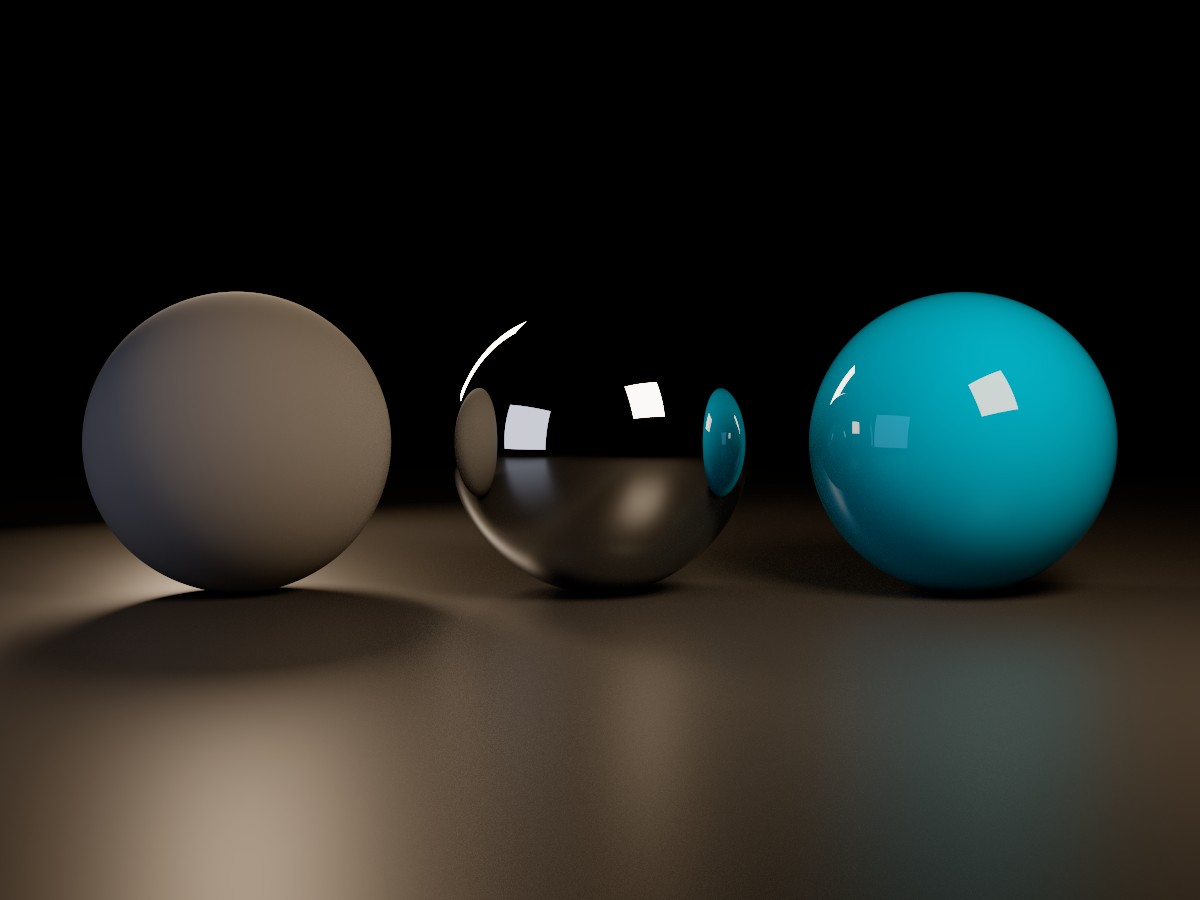
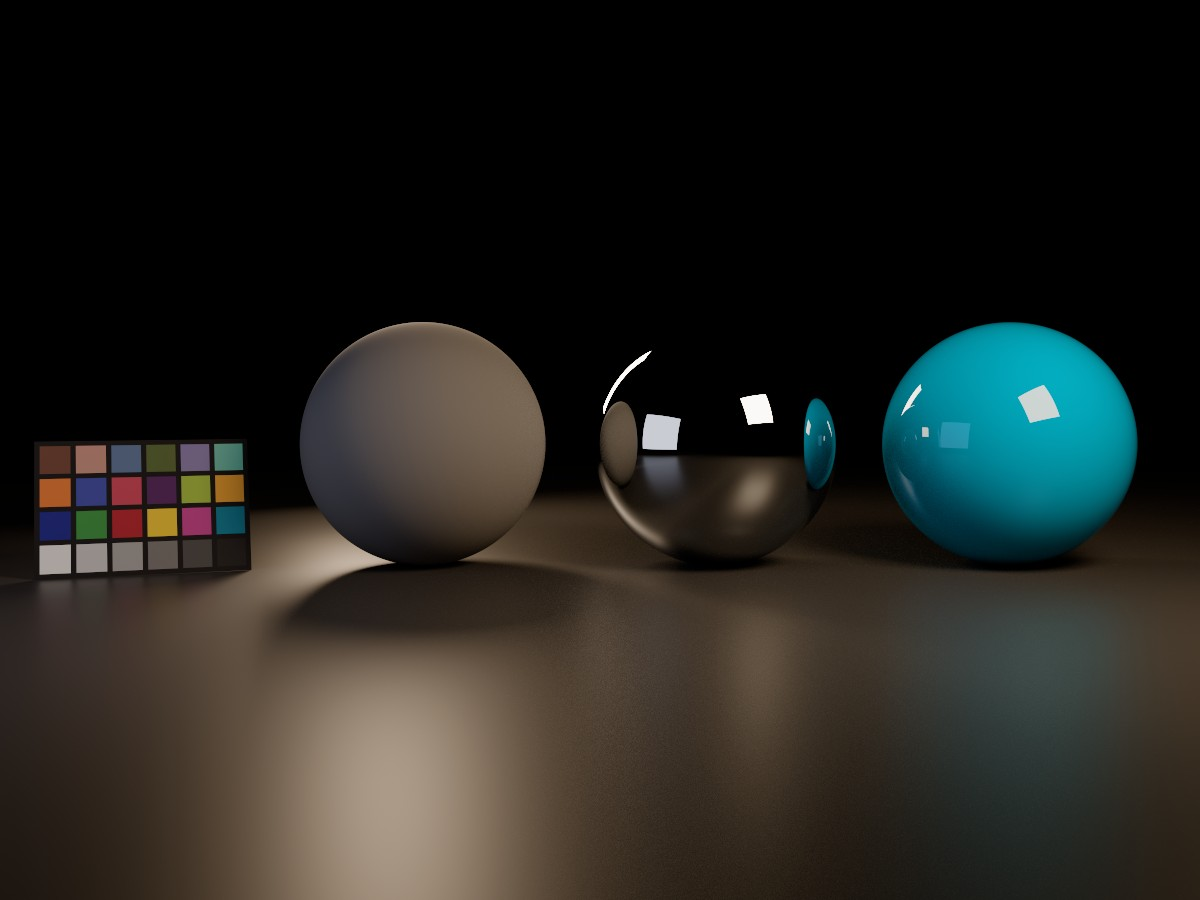
Lookdev lab: a ColorChecker beside the reference balls
The lookdev trio is chart, gray ball, chrome ball. The chart now stands at the
left of the row (on by default, with a Chart toggle): a card on the floor,
leaning back 15 degrees and turned to the camera, its 24 patches X-Rite's
published L*a*b* values (charts after November 2014, D50), Bradford-adapted to
the ACES white and converted to ACEScg, shaded like the official gray card.
The frame widens and moves left to take it in, keeping its margins; the model
plates get a chart beside their small gray ball. It hides in the furnace test
(readings unchanged at 1.000).

Posters re-rendered at 2048 spp (the rig reproduces the old poster within
about one level with the chart off); the engine's resolution cap is now a
field so the poster render can raise it. Tech note, citation, intro copy and
the poster's alt text mention the chart.

diff --git a/components/lookdev/engine.ts b/components/lookdev/engine.ts
@@ -1,6 +1,6 @@
 import { VERT, E_TABLE_FRAG, DISPLAY_FRAG, DENOISE_PREP_FRAG, ATROUS_FRAG, traceFrag } from './shaders'
 import { kelvinToACEScg } from './color'
-import { SCENE_MATERIALS, HERO_PRESETS, MATERIAL_FIELDS, STAGES, BALLS_METERS_PER_UNIT, heroParams, subsurfaceScale, type OpenPBR, type Hero, type PaintFinish, type SkinTone, type Stage } from './materials'
+import { SCENE_MATERIALS, HERO_PRESETS, MATERIAL_FIELDS, STAGES, BALLS_METERS_PER_UNIT, COLOR_CHECKER, heroParams, subsurfaceScale, type OpenPBR, type Hero, type PaintFinish, type SkinTone, type Stage } from './materials'
 import { MODELS, MODEL_BALLS, MESH_MATERIALS, loadModel, type Model } from './models'
 
 export type Pass = 'beauty' | 'diffuse' | 'specular' | 'albedo' | 'normal'
@@ -23,6 +23,7 @@ export interface LabState {
   model: Model
   modelYaw: number // turntable angle of a model, radians
   stage: Stage
+  chart: boolean // the color chart beside the reference balls
   hero: Hero
   paint: PaintFinish // car paint's finish
   flakes: boolean // car paint flakes (metallic, pearl and iridescent finishes)
@@ -52,6 +53,7 @@ export const DEFAULT_STATE: LabState = {
   model: 'spheres',
   modelYaw: 0.6,
   stage: 'void',
+  chart: true,
   hero: 'carpaint',
   paint: 'solid',
   flakes: false,
@@ -254,6 +256,13 @@ const CAM_TARGET: Vec3 = [0, 0.95, 0]
 const H_HALF_EXTENT = 4.0
 const MODEL_CAM_TARGET: Vec3 = [0, 0.62, 0]
 const MODEL_H_HALF_EXTENT = 3.55
+
+// The color chart stands at the left end of the row, beside the gray ball, as on a lookdev plate (chart, gray
+// ball, chrome ball): on the floor, leaning back, turned to face the camera. Its width is in gray ball radii; the
+// frame widens and moves left to take it in, keeping its margins.
+const CHART_GAP = 0.18 // the tracer's CHART_GAP: between patches and around them, in patch widths
+const CHART_ASPECT = (4 + 5 * CHART_GAP) / (6 + 7 * CHART_GAP) // height over width
+const CHART_TILT = (15 * Math.PI) / 180
 
 function direction(az: number, el: number): Vec3 {
   return [Math.cos(el) * Math.sin(az), Math.sin(el), Math.cos(el) * Math.cos(az)]
@@ -610,8 +619,13 @@ export class LookdevEngine {
     return key === 'base' ? this.progTrace : this.variants.get(key)!.prog
   }
 
-  // World points under each labelled object: the two reference balls and the hero (ball or model).
+  // World points under each labelled object: the two reference balls, the hero (ball or model), then the chart.
   labelPoints(): Vec3[] {
+    const chart = this.frame().chart
+    return chart ? [...this.objectPoints(), chart.foot] : this.objectPoints()
+  }
+
+  private objectPoints(): Vec3[] {
     if (this.state.model === 'spheres') return BALL_X.map((x): Vec3 => [x, 0, 0])
     const mesh = this.meshes.get(this.state.model)
     const scaleW = MODELS[this.state.model].scale
@@ -737,10 +751,12 @@ export class LookdevEngine {
     return { tex, fbo }
   }
 
+  // Cap on the internal resolution, so the path tracer stays interactive on large or dense displays (and the light
+  // mixer's three float images per buffer stay modest in GPU memory). The poster renders raise it.
+  maxPixels = 1_200_000
+
   resize(cssW: number, cssH: number, dpr: number) {
-    // Cap the internal resolution so the path tracer stays interactive on large or dense displays (and the light
-    // mixer's three float images per buffer stay modest in GPU memory).
-    const maxPixels = 1_200_000
+    const maxPixels = this.maxPixels
     let scaleF = Math.min(dpr, 1.5)
     if (cssW * cssH * scaleF * scaleF > maxPixels) scaleF = Math.sqrt(maxPixels / (cssW * cssH))
     const w = Math.max(1, Math.round(cssW * scaleF))
@@ -866,24 +882,48 @@ export class LookdevEngine {
 
   // Normalized screen position (0..1, y down) of a world point, used for HTML labels.
   project(p: Vec3) {
-    const { fwd, right, up, tanH, tanV } = this.camera()
-    const d = sub(p, CAM_POS)
+    const { pos, fwd, right, up, tanH, tanV } = this.camera()
+    const d = sub(p, pos)
     const z = dot(d, fwd)
     const x = dot(d, right) / z / tanH
     const y = dot(d, up) / z / tanV
     return { x: (x + 1) / 2, y: 1 - (y + 1) / 2 }
   }
 
+  // The framing (camera position and aim, horizontal half extent at the aim) and the chart's card, if shown.
+  private frame() {
+    const s = this.state
+    const plate = s.model !== 'spheres'
+    const y = s.model === 'spheres' ? CAM_TARGET[1] : MODELS[s.model].camTargetY ?? MODEL_CAM_TARGET[1]
+    const half0 = plate ? MODEL_H_HALF_EXTENT : H_HALF_EXTENT
+    if (!s.chart) return { pos: CAM_POS, target: [0, y, 0] as Vec3, half: half0, chart: null }
+    // The row's right end (the hero ball, or the chrome ball beside a model) and the gray ball at its left.
+    const right = plate ? MODEL_BALLS[1][0] + MODEL_BALLS[1][3] : BALL_X[2] + 1
+    const [gx, gz, gr] = plate ? [MODEL_BALLS[0][0], MODEL_BALLS[0][2], MODEL_BALLS[0][3]] : [BALL_X[0], 0, 1]
+    const w = gr * (plate ? 2.2 : 1.6)
+    const h = w * CHART_ASPECT
+    const cx = gx - gr * 1.3 - w / 2
+    const left = cx - w / 2
+    const mid = (left + right) / 2
+    const pos: Vec3 = [mid, CAM_POS[1], CAM_POS[2]]
+    // The card's bottom edge stands on the floor; its face turns toward the camera and leans back.
+    const cz = gz + gr * 0.6 // a little forward, into the key's light
+    const yaw = Math.atan2(pos[0] - cx, pos[2] - cz)
+    const U: Vec3 = [Math.cos(yaw) * w, 0, -Math.sin(yaw) * w]
+    const V: Vec3 = scale([-Math.sin(CHART_TILT) * Math.sin(yaw), Math.cos(CHART_TILT), -Math.sin(CHART_TILT) * Math.cos(yaw)], h)
+    const foot: Vec3 = [cx, 0.002, cz]
+    return { pos, target: [mid, y, 0] as Vec3, half: (right - left) / 2 + (half0 - right), chart: { O: sub(foot, scale(U, 0.5)), U, V, foot } }
+  }
+
   private camera() {
-    const plate = this.state.model !== 'spheres'
-    const target: Vec3 = plate ? [0, MODELS[this.state.model as Exclude<Model, 'spheres'>].camTargetY ?? MODEL_CAM_TARGET[1], 0] : CAM_TARGET
-    const fwd = normalize(sub(target, CAM_POS))
+    const { pos, target, half } = this.frame()
+    const fwd = normalize(sub(target, pos))
     const right = normalize(cross(fwd, [0, 1, 0]))
     const up = cross(right, fwd)
-    const tanH = (plate ? MODEL_H_HALF_EXTENT : H_HALF_EXTENT) / length(sub(target, CAM_POS))
+    const tanH = half / length(sub(target, pos))
     const aspect = this.width && this.height ? this.width / this.height : 2.39
     const tanV = tanH / aspect
-    return { fwd, right, up, tanH, tanV }
+    return { pos, fwd, right, up, tanH, tanV }
   }
 
   // Start over from zero samples. A pass in progress is abandoned: its finished slices sit in the destination
@@ -913,7 +953,7 @@ export class LookdevEngine {
     const L = (n: string) => this.loc(prog, n)
 
     const cam = this.camera()
-    gl.uniform3fv(L('uCamPos'), CAM_POS)
+    gl.uniform3fv(L('uCamPos'), cam.pos)
     gl.uniform3fv(L('uCamFwd'), cam.fwd)
     gl.uniform3fv(L('uCamRight'), cam.right)
     gl.uniform3fv(L('uCamUp'), cam.up)
@@ -967,6 +1007,14 @@ export class LookdevEngine {
     gl.uniform1i(L('uCyc'), stage.cyc ? 1 : 0)
     gl.uniform1f(L('uCycZ'), CYC_Z)
     gl.uniform1f(L('uCycR'), CYC_R)
+    const chart = this.frame().chart
+    gl.uniform1i(L('uChart'), chart ? 1 : 0)
+    if (chart) {
+      gl.uniform3fv(L('uChartO'), chart.O)
+      gl.uniform3fv(L('uChartU'), chart.U)
+      gl.uniform3fv(L('uChartV'), chart.V)
+    }
+    gl.uniform3fv(L('uChartColor'), COLOR_CHECKER.flat())
     const mats: OpenPBR[] = [SCENE_MATERIALS.gray, SCENE_MATERIALS.chrome, hero, stage.material]
 
     if (s.model === 'spheres') {

diff --git a/components/LookdevLab.tsx b/components/LookdevLab.tsx
@@ -109,6 +109,10 @@ function modelPatch(m: Model): Partial<LabState> {
 const TECH_NOTES: [string, string][] = [
   ['Color', 'Rendered in ACEScg, shown through ACES 2.0 (baked from OpenColorIO 2.5), AgX, Khronos PBR Neutral or a plain sRGB curve.'],
   [
+    'Color chart',
+    "A ColorChecker Classic: X-Rite's published values for its 24 patches, converted to ACEScg reflectances and shaded like the gray card, so every view transform can be judged against known colors.",
+  ],
+  [
     'Validation',
     'In a white furnace test, with multiple-scattering compensation on, every OpenPBR preset averages within 0.4% of 1.0, and rough glass stays within about 1.5% through a solid ball. Paint flakes are a lab extension, not part of OpenPBR, and lose about 2%.',
   ],
@@ -361,11 +365,12 @@ export default function LookdevLab() {
     }
   }, [])
 
-  // Labels follow the plate: a model moves the reference balls aside, and its own label tracks the turntable.
+  // Labels follow the plate: a model moves the reference balls aside, and its own label tracks the turntable; the
+  // chart widens the frame.
   useEffect(() => {
     const e = engineRef.current
     if (e) setLabels(e.labelPoints().map(p => e.project(p)))
-  }, [lab.model, lab.modelYaw, status.model, ready])
+  }, [lab.model, lab.modelYaw, lab.chart, status.model, ready])
 
   // "Drag me" by the key light's marker until the visitor first moves the light (remembered on this device).
   const [lightMoved, setLightMoved] = useState(true) // until read below, so the hint never flashes for returners
@@ -459,7 +464,7 @@ export default function LookdevLab() {
   const markerX = (lab.keyAz / AZ_RANGE + 0.5) * 100
   const markerY = ((EL_MAX - lab.keyEl) / ((EL_MAX - EL_MIN) * 1.1)) * 100
   const model = lab.model === 'spheres' ? null : MODELS[lab.model]
-  const ballNames = ['18% gray', 'Chrome', model ? `${model.label}, ${heroName.toLowerCase()}` : heroName]
+  const ballNames = ['18% gray', 'Chrome', model ? `${model.label}, ${heroName.toLowerCase()}` : heroName, 'Color chart']
 
   return (
     <section ref={sectionRef} id="lab" className="section-pad" style={{ borderBottom: '0.5px solid var(--border)' }}>
@@ -473,8 +478,8 @@ export default function LookdevLab() {
           Light, rendered live
         </h2>
         <p style={{ fontSize: 14, color: 'var(--text-muted)', lineHeight: 1.8, maxWidth: 640 }}>
-          A progressive path tracer running a subset of OpenPBR Surface on the reference balls every lighting department
-          shoots: an 18% gray ball, a chrome ball, and a hero material.
+          A progressive path tracer running a subset of OpenPBR Surface on the references every lighting department
+          shoots: a color chart, an 18% gray ball, a chrome ball, and a hero material.
         </p>
       </div>
 
@@ -488,7 +493,7 @@ export default function LookdevLab() {
 
       <div ref={frameRef} className="lab-frame">
         {mode === 'fallback' ? (
-          <Still alt="Path traced lookdev reference balls: an 18% gray card ball, a chromium ball and a clear coated car paint ball under a three point softbox rig" />
+          <Still alt="Path traced lookdev references: a color chart, an 18% gray card ball, a chromium ball and a clear coated car paint ball under a three point softbox rig" />
         ) : (
           <canvas
             ref={canvasRef}
@@ -602,6 +607,11 @@ export default function LookdevLab() {
                   {STAGES[st].label}
                 </Pill>
               ))}
+            </Group>
+            <Group label="Chart">
+              <Pill on={lab.chart} onClick={() => update({ chart: !lab.chart })}>
+                Color chart {lab.chart ? 'on' : 'off'}
+              </Pill>
             </Group>
             {model && (
               <Group label="Turntable">

diff --git a/components/lookdev/shaders.ts b/components/lookdev/shaders.ts
@@ -1318,6 +1318,14 @@ uniform float uCycZ;
 uniform float uCycR;
 // The scene has smooth thin-walled glass (a soap bubble, car windows): shadow rays pass through it, dimmed.
 uniform int uThinGlass;
+// The color chart (uChart 1): a card from corner uChartO along its full width uChartU and height uChartV, the front
+// facing cross(U, V). Its 24 patches (row by row from the top left), then its frame, in uChartColor.
+uniform int uChart;
+uniform vec3 uChartO;
+uniform vec3 uChartU;
+uniform vec3 uChartV;
+uniform vec3 uChartColor[25];
+#define CHART_MAT 16 // material index of the chart's first patch; the frame is CHART_MAT + 24
 #ifdef MESH
 // Material slots: 0 gray ball, 1 chrome, 2 hero, 3 floor, 4-9 the model's other parts.
 uniform vec4 uBall[3]; // center, radius (0 = absent)
@@ -1424,6 +1432,31 @@ float cycHit(vec3 ro, vec3 rd, float tMax, out vec3 n) {
   return best;
 }
 
+// The color chart: hit distance before tMax or -1, the normal facing the ray, and the patch hit (24: the frame or
+// the back). The patches are squares in a 6 x 4 grid, CHART_GAP patch widths apart and from the edges (the host
+// sizes the card to match).
+#define CHART_GAP 0.18
+float chartHit(vec3 ro, vec3 rd, float tMax, out vec3 nOut, out int cellId) {
+  vec3 N = normalize(cross(uChartU, uChartV));
+  float dn = dot(rd, N);
+  nOut = dn < 0.0 ? N : -N;
+  cellId = 24;
+  if (abs(dn) < 1e-8) return -1.0;
+  float t = dot(uChartO - ro, N) / dn;
+  if (t <= 1e-4 || t >= tMax) return -1.0;
+  vec3 q = ro + rd * t - uChartO;
+  vec2 ab = vec2(dot(q, uChartU) / dot(uChartU, uChartU), dot(q, uChartV) / dot(uChartV, uChartV));
+  if (any(lessThan(ab, vec2(0.0))) || any(greaterThan(ab, vec2(1.0)))) return -1.0;
+  if (dn < 0.0) {
+    vec2 g = ab * vec2(6.0 + 7.0 * CHART_GAP, 4.0 + 5.0 * CHART_GAP) - CHART_GAP; // from the first patch's corner
+    vec2 cell = floor(g / (1.0 + CHART_GAP));
+    vec2 f = g - cell * (1.0 + CHART_GAP);
+    if (cell.x >= 0.0 && cell.y >= 0.0 && cell.x < 6.0 && cell.y < 4.0 && f.x < 1.0 && f.y < 1.0)
+      cellId = int(cell.x) + 6 * (3 - int(cell.y));
+  }
+  return t;
+}
+
 #ifdef MESH
 ${MESH_GLSL}
 float intersectBall(vec3 ro, vec3 rd, vec4 s, float tMax) {
@@ -1516,6 +1549,15 @@ Hit trace(vec3 ro, vec3 rd, float tMax, bool shadow, bool withLights, inout vec3
     }
   }
 #endif
+  if (uChart == 1 && uFurnace == 0) {
+    vec3 nc;
+    int cid;
+    float t = chartHit(ro, rd, h.t, nc, cid);
+    if (t > 0.0) {
+      h.t = t; h.n = nc; h.ng = nc; h.mat = CHART_MAT + cid; h.back = false;
+      if (shadow) return h;
+    }
+  }
   if (uFurnace == 0 && rd.y < 0.0) {
     float t = -ro.y / rd.y;
     if (t > 0.0 && t < h.t && (uCyc == 0 || ro.z + rd.z * t >= uCycZ)) {
@@ -1540,7 +1582,12 @@ Hit trace(vec3 ro, vec3 rd, float tMax, bool shadow, bool withLights, inout vec3
 
 Mat getMat(int i) {
   Mat m;
-  if (i == 0) m = uMat[0];
+  if (i >= CHART_MAT) {
+    // The chart: the gray card's matte surface in the patch's color.
+    m = uMat[0];
+    m.base_color = uChartColor[i - CHART_MAT];
+  }
+  else if (i == 0) m = uMat[0];
   else if (i == 1) m = uMat[1];
   else if (i == 2) m = uMat[2];
 #ifdef MESH

diff --git a/components/lookdev/materials.ts b/components/lookdev/materials.ts
@@ -146,6 +146,20 @@ export const STAGES: Record<Stage, { label: string; cyc: boolean; material: Open
   gray: { label: 'Gray cyc', cyc: true, material: SCENE_MATERIALS.grayCyc },
 }
 
+// The ColorChecker Classic's 24 patches, row by row from dark skin to black, as ACEScg reflectances: X-Rite's
+// published CIE L*a*b* values for charts made after November 2014 (D50), to XYZ, Bradford-adapted to the ACES
+// white point, to ACEScg. They shade as the gray card does (its matte surface in each patch's color). Last, the
+// chart's black frame (authored).
+export const COLOR_CHECKER: RGB[] = [
+  [0.1358, 0.0851, 0.0582], [0.4474, 0.2963, 0.2254], [0.1436, 0.1848, 0.3089], [0.1184, 0.1462, 0.0629],
+  [0.2318, 0.2163, 0.3989], [0.2625, 0.4786, 0.4156], [0.5274, 0.2379, 0.0635], [0.0887, 0.1021, 0.3495],
+  [0.3761, 0.1142, 0.12], [0.0877, 0.048, 0.127], [0.3749, 0.4797, 0.0984], [0.5953, 0.3823, 0.0729],
+  [0.0424, 0.0489, 0.2528], [0.1303, 0.2717, 0.0864], [0.2879, 0.0652, 0.0484], [0.7113, 0.5854, 0.0843],
+  [0.3604, 0.1118, 0.2709], [0.0703, 0.2161, 0.3528], [0.8793, 0.8839, 0.8407], [0.5871, 0.5915, 0.5853],
+  [0.3613, 0.3664, 0.3653], [0.1904, 0.1908, 0.1899], [0.0871, 0.0885, 0.0896], [0.0315, 0.0315, 0.0322],
+  [0.02, 0.02, 0.02],
+]
+
 export type Hero =
   | 'carpaint' | 'gold' | 'velvet' | 'thinfilm' | 'plastic' | 'brushed' | 'titanium' | 'glass' | 'diamond' | 'soapbubble'
   | 'skin' | 'marble' | 'ceramic' | 'honey' | 'copper' | 'silver'

diff --git a/components/lookdev/citations.ts b/components/lookdev/citations.ts
@@ -140,6 +140,17 @@ export const CITATIONS: Citation[] = [
     url: 'https://jcgt.org/published/0002/02/01/',
   },
   {
+    id: 'colorchecker',
+    group: 'Color and display',
+    by: 'X-Rite',
+    short: 'ColorChecker values',
+    authors: 'X-Rite; Colour Developers',
+    title: 'ColorChecker Classic, charts made after November 2014: CIE L*a*b* values (D50)',
+    venue: 'Colour, characterisation datasets',
+    year: '2014',
+    url: 'https://github.com/colour-science/colour/blob/develop/colour/characterisation/datasets/colour_checkers/chromaticity_coordinates.py',
+  },
+  {
     id: 'sah',
     group: 'Geometry',
     short: 'Binned SAH BVH',
